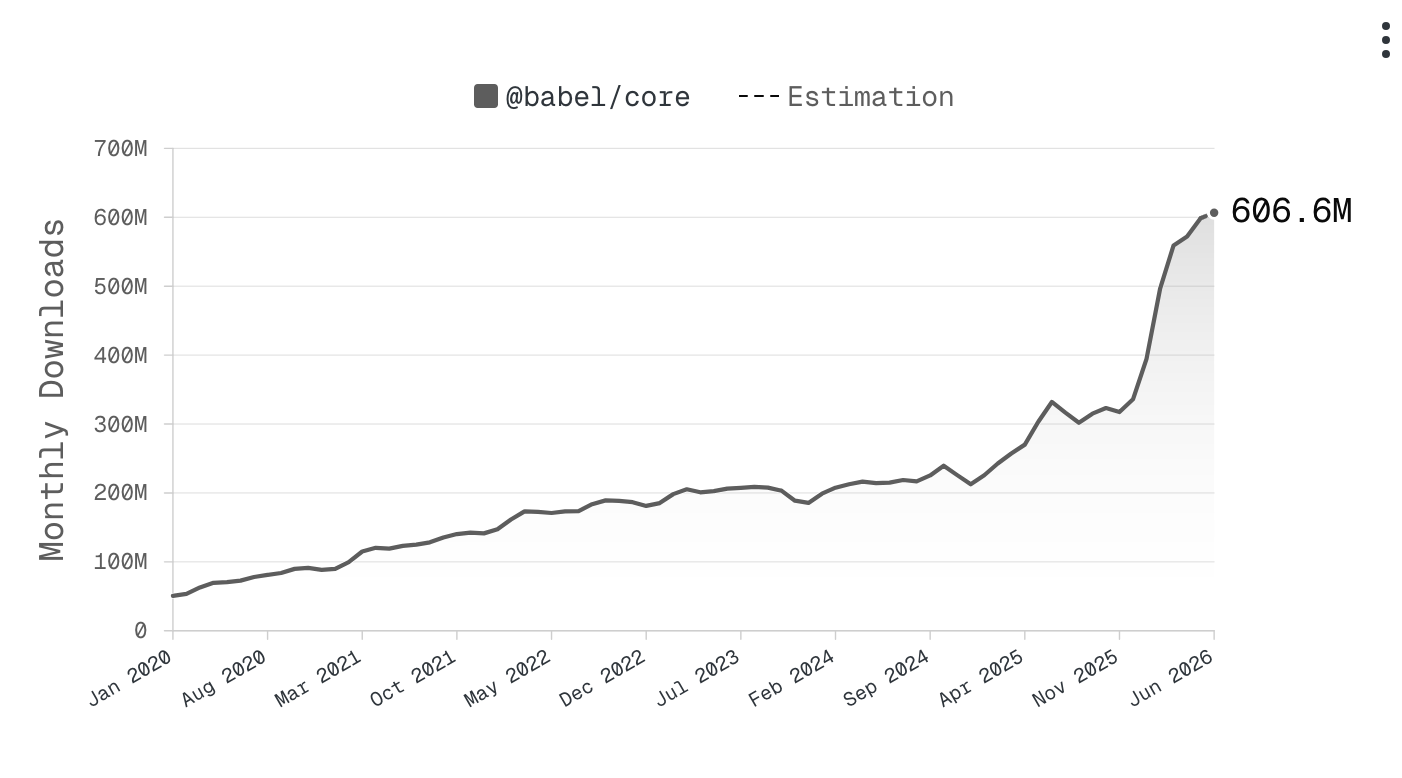
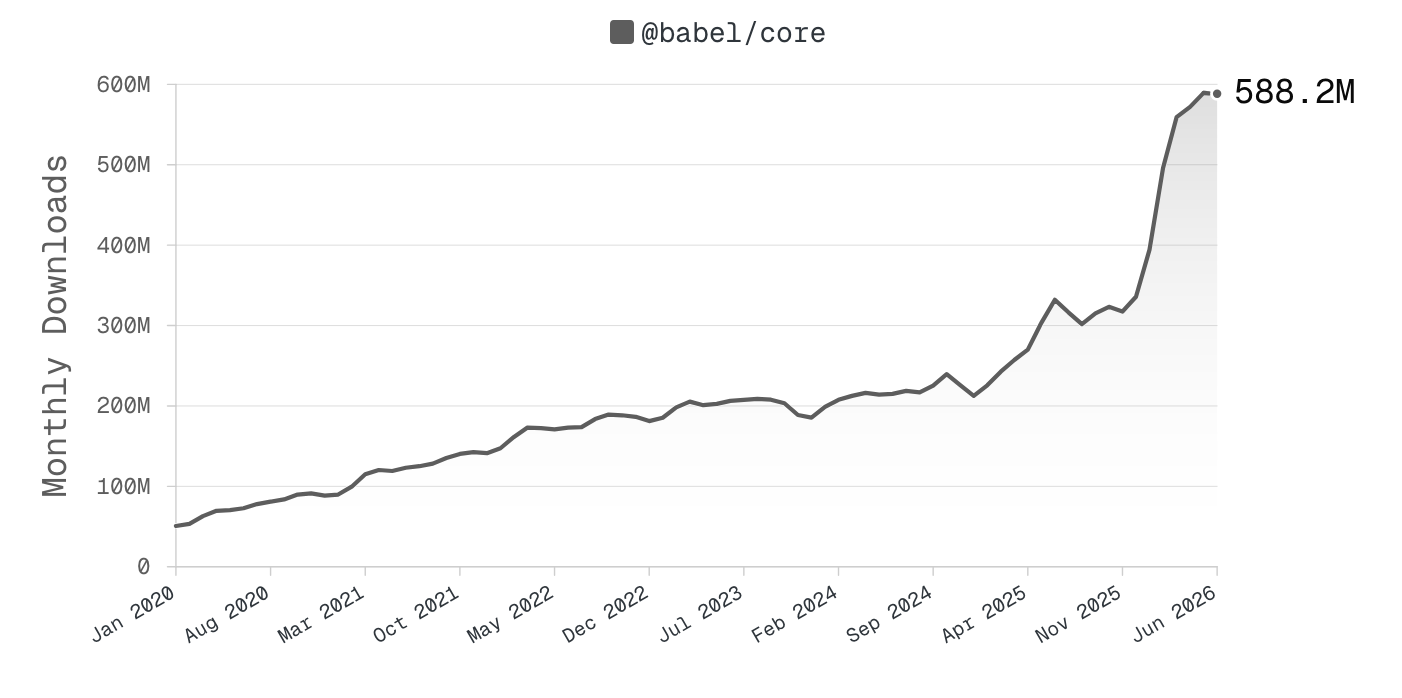
Update downloads stats

diff --git a/website/blog/2026-06-15-8.0.0.md b/website/blog/2026-06-15-8.0.0.md
@@ -78,7 +78,7 @@ If you or your company want to support Babel but aren't sure how, you can donate
 
 <figure>
   <img src="/assets/2026-06-15-8.0.0/downloads.png" alt="Graph showing monthly downloads, starting from January 2020. In 2020 they were around 50M/month, they reached 200M/month in 2023, 300M/month in 2025 and 600M/month in 2026" />
-  <figcaption style={{ fontSize: "0.9em", textAlign: "center" }}>Monthly downloads of `@babel/core`, from 2020 to 2026.<br/>Screenshot from [npmx.dev](https://npmx.dev).</figcaption>
+  <figcaption style={{ fontSize: "0.9em", textAlign: "center" }}>Monthly downloads of `@babel/core`, from 2020 to 2026.<br/>Screenshot from [npmx.dev's `@babel/core` stats](https://npmx.dev/package/@babel/core?modal=chart&start=2020-01-01&end=2026-06-14&granularity=monthly).</figcaption>
 </figure>
 
 ## Babel 7